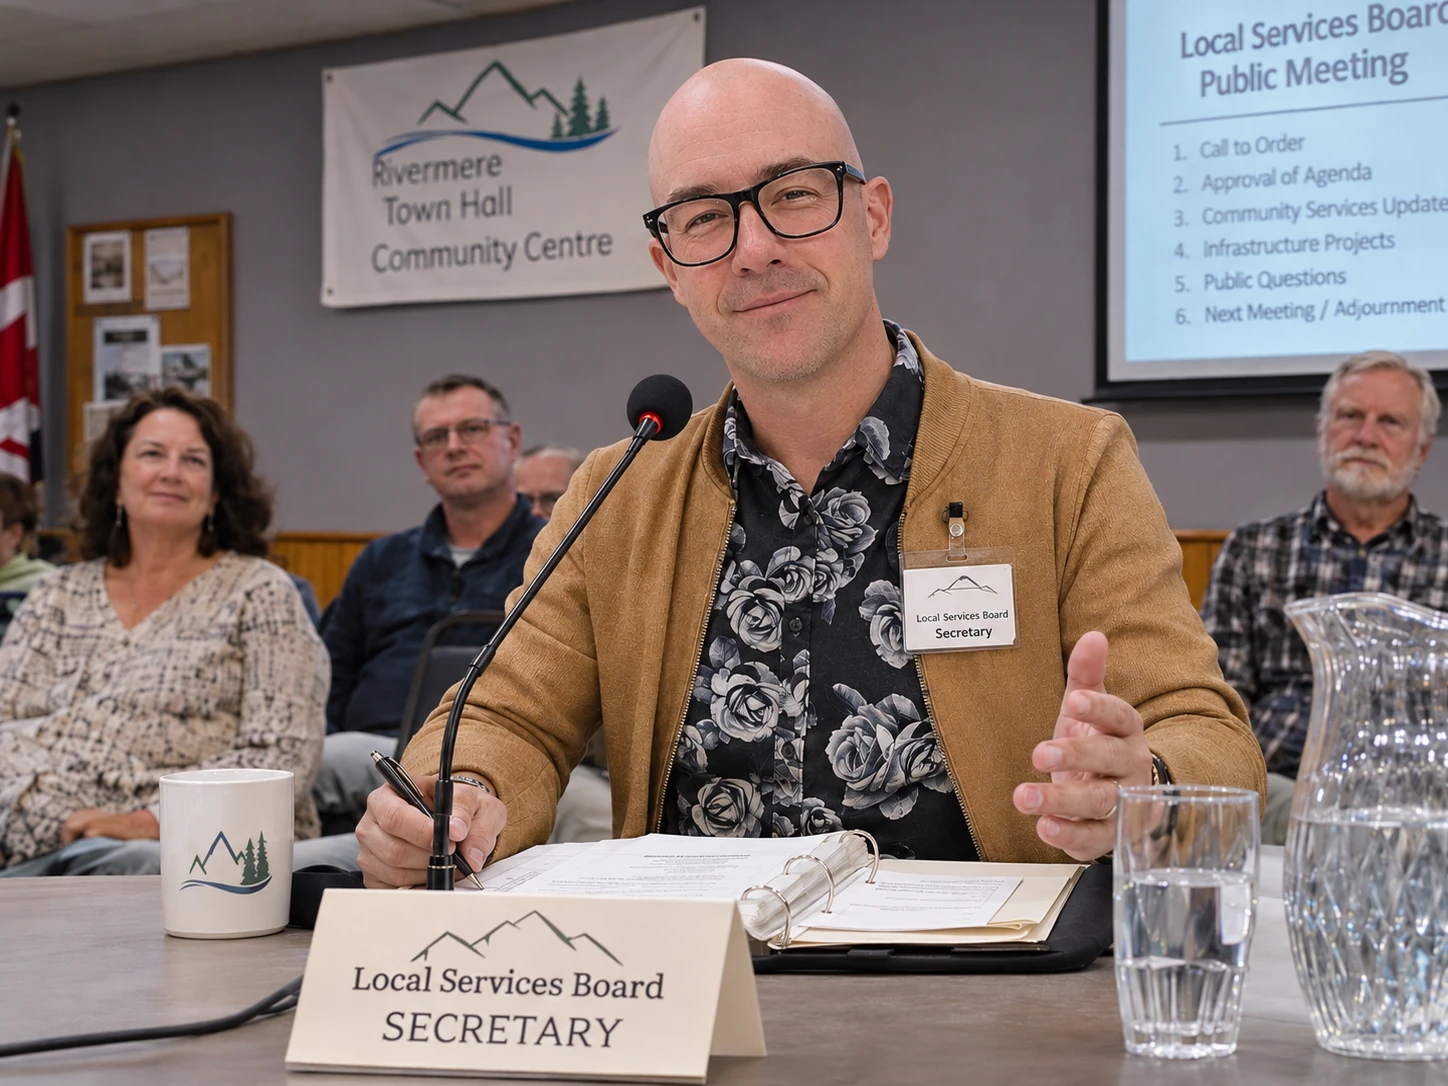
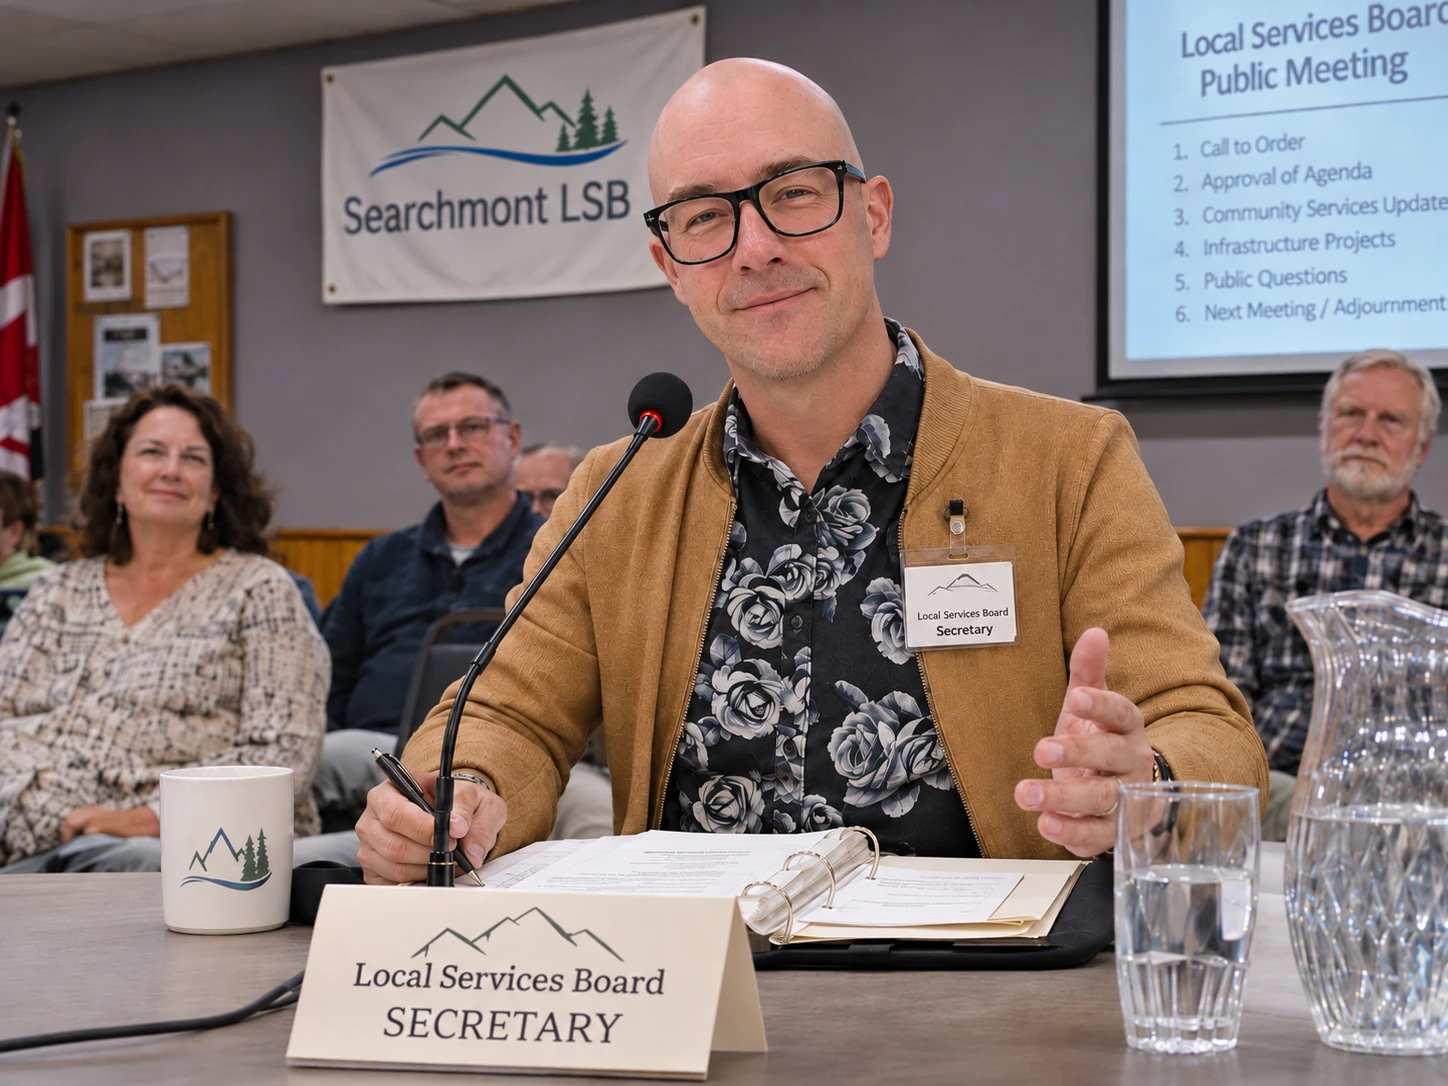
Update the board and community leadership photos

diff --git a/index.html b/index.html
@@ -424,7 +424,7 @@
           <figcaption><b>Fire Chief</b><span>Searchmont · 11 years</span></figcaption>
         </figure>
         <figure class="lead-photo">
-          <img src="images/lead-community.webp" alt="Travis crouching beside the wooden Searchmont Community sign, with the fire hall in the background" loading="lazy" width="1182" height="1331" style="object-position: 50% 25%">
+          <img src="images/lead-community.webp" alt="Travis crouching beside the wooden Searchmont sign, with the fire hall in the background" loading="lazy" width="1182" height="1331" style="object-position: 50% 25%">
           <figcaption><b>Community</b><span>Project leader</span></figcaption>
         </figure>
       </div>
